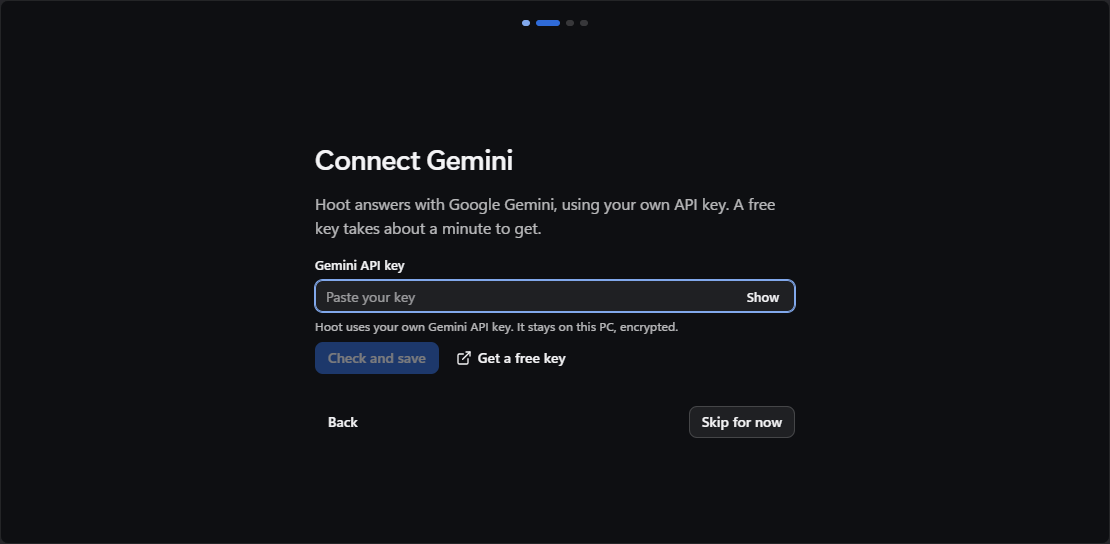
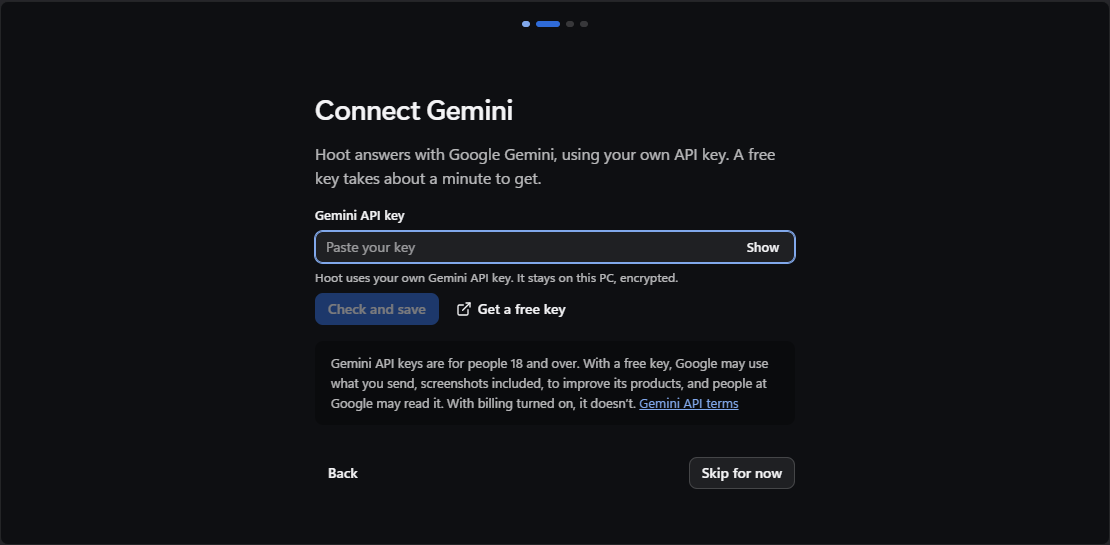
F-D3-2b: onboarding key step names the 18+ rule and free vs paid keys
C's data-terms check on #55: Gemini API keys are for adults, and a free key
lets Google use what's sent, screenshots included.

Generated with [Devin](https://devin.ai)

diff --git a/packages/ui/tests/onboarding.test.tsx b/packages/ui/tests/onboarding.test.tsx
@@ -2,6 +2,7 @@ import { DEFAULT_SETTINGS } from '@hoot/core'
 import { describe, expect, it, vi, type Mock } from 'vitest'
 import { HootUIProvider } from '../src/components/HootUIProvider'
 import { OnboardingPane } from '../src/onboarding/OnboardingPane'
+import { GEMINI_TERMS_URL } from '../src/lens/sites'
 import { byName, click, render } from './render'
 
 type Handlers = {
@@ -71,6 +72,31 @@ describe('OnboardingPane', () => {
     expect(step.textContent).not.toContain('Skip for now')
     click(byName(step, 'button', 'Continue'))
     expect(onStep).toHaveBeenLastCalledWith(2)
+  })
+
+  it('says keys are 18+ and how a free key differs, linking the Gemini terms', () => {
+    const onOpenLink = vi.fn()
+    const { container } = render(
+      <HootUIProvider>
+        <OnboardingPane
+          step={1}
+          summonHotkey={DEFAULT_SETTINGS.summonHotkey}
+          captureHotkey={DEFAULT_SETTINGS.captureHotkey}
+          hasApiKey={false}
+          keyStorage="os-encrypted"
+          onUpdate={() => undefined}
+          onSaveKey={async () => ({ ok: true })}
+          onOpenLink={onOpenLink}
+          onStep={() => undefined}
+          onFinish={() => undefined}
+        />
+      </HootUIProvider>
+    )
+    const note = current(container).querySelector('.hoot-onb__note')!
+    expect(note.textContent).toContain('for people 18 and over')
+    expect(note.textContent).toContain('With a free key')
+    click(note.querySelector('a'))
+    expect(onOpenLink).toHaveBeenCalledWith(GEMINI_TERMS_URL)
   })
 
   it('moves focus to the new step’s heading', () => {

diff --git a/packages/ui/src/onboarding/OnboardingPane.tsx b/packages/ui/src/onboarding/OnboardingPane.tsx
@@ -8,6 +8,7 @@ import { Owl } from '../components/Owl'
 import { ExtensionStatus } from '../lens/ExtensionStatus'
 import { springs } from '../motion/springs'
 import { acceleratorKeys } from '../settings/accelerator'
+import { GEMINI_TERMS_URL } from '../lens/sites'
 import { ApiKeyField } from '../settings/ApiKeyField'
 import { ShortcutFields } from '../settings/ShortcutFields'
 import { ONBOARDING_STEPS } from './steps'
@@ -151,6 +152,20 @@ function StepBody(p: OnboardingPaneProps): React.JSX.Element {
             onOpenLink={p.onOpenLink}
             autoFocus={!p.hasApiKey}
           />
+          <p className="hoot-onb__note">
+            Gemini API keys are for people 18 and over. With a free key, Google may use what you
+            send, screenshots included, to improve its products, and people at Google may read it.
+            With billing turned on, it doesn’t.{' '}
+            <a
+              href={GEMINI_TERMS_URL}
+              onClick={(e) => {
+                e.preventDefault()
+                p.onOpenLink(GEMINI_TERMS_URL)
+              }}
+            >
+              Gemini API terms
+            </a>
+          </p>
         </Step>
       )
     case 2:

diff --git a/packages/ui/src/index.ts b/packages/ui/src/index.ts
@@ -96,7 +96,7 @@ export {
 // Lens (D3-13, D3-20)
 export { ExtensionStatus, type ExtensionStatusProps } from './lens/ExtensionStatus'
 export { ReadingPane, type ReadingPaneProps } from './lens/ReadingPane'
-export { languageName, siteFromInput, siteLabel } from './lens/sites'
+export { GEMINI_TERMS_URL, languageName, siteFromInput, siteLabel } from './lens/sites'
 export { ProfilePane, type ProfilePaneProps } from './lens/ProfilePane'
 export { GlossaryPane, type GlossaryPaneProps } from './lens/GlossaryPane'
 export {

diff --git a/packages/ui/src/onboarding/onboarding.css b/packages/ui/src/onboarding/onboarding.css
@@ -157,3 +157,6 @@
     background: Highlight;
   }
 }
+.hoot-onb__note a {
+  color: var(--accent-text);
+}

diff --git a/docs/status/d3.md b/docs/status/d3.md
@@ -62,6 +62,9 @@ Owns: `packages/ui/**`, `packages/pdf-view/**`,
     pasted URL via core's `registrableDomain`, a per-site rule, remove with
     Undo), retention, and links to the profile and glossary pages.
   - Shots `reading-{consent,on}-*` with axe clean; 8 tests (`tests/reading.test.tsx`).
+- **F-D3-2b** (this PR): the onboarding key step says Gemini API keys are for
+  people 18 and over, explains how a free key and billing differ, and links
+  the Gemini API terms (C's follow-up from the #55 review).
 
 ## Next
 
